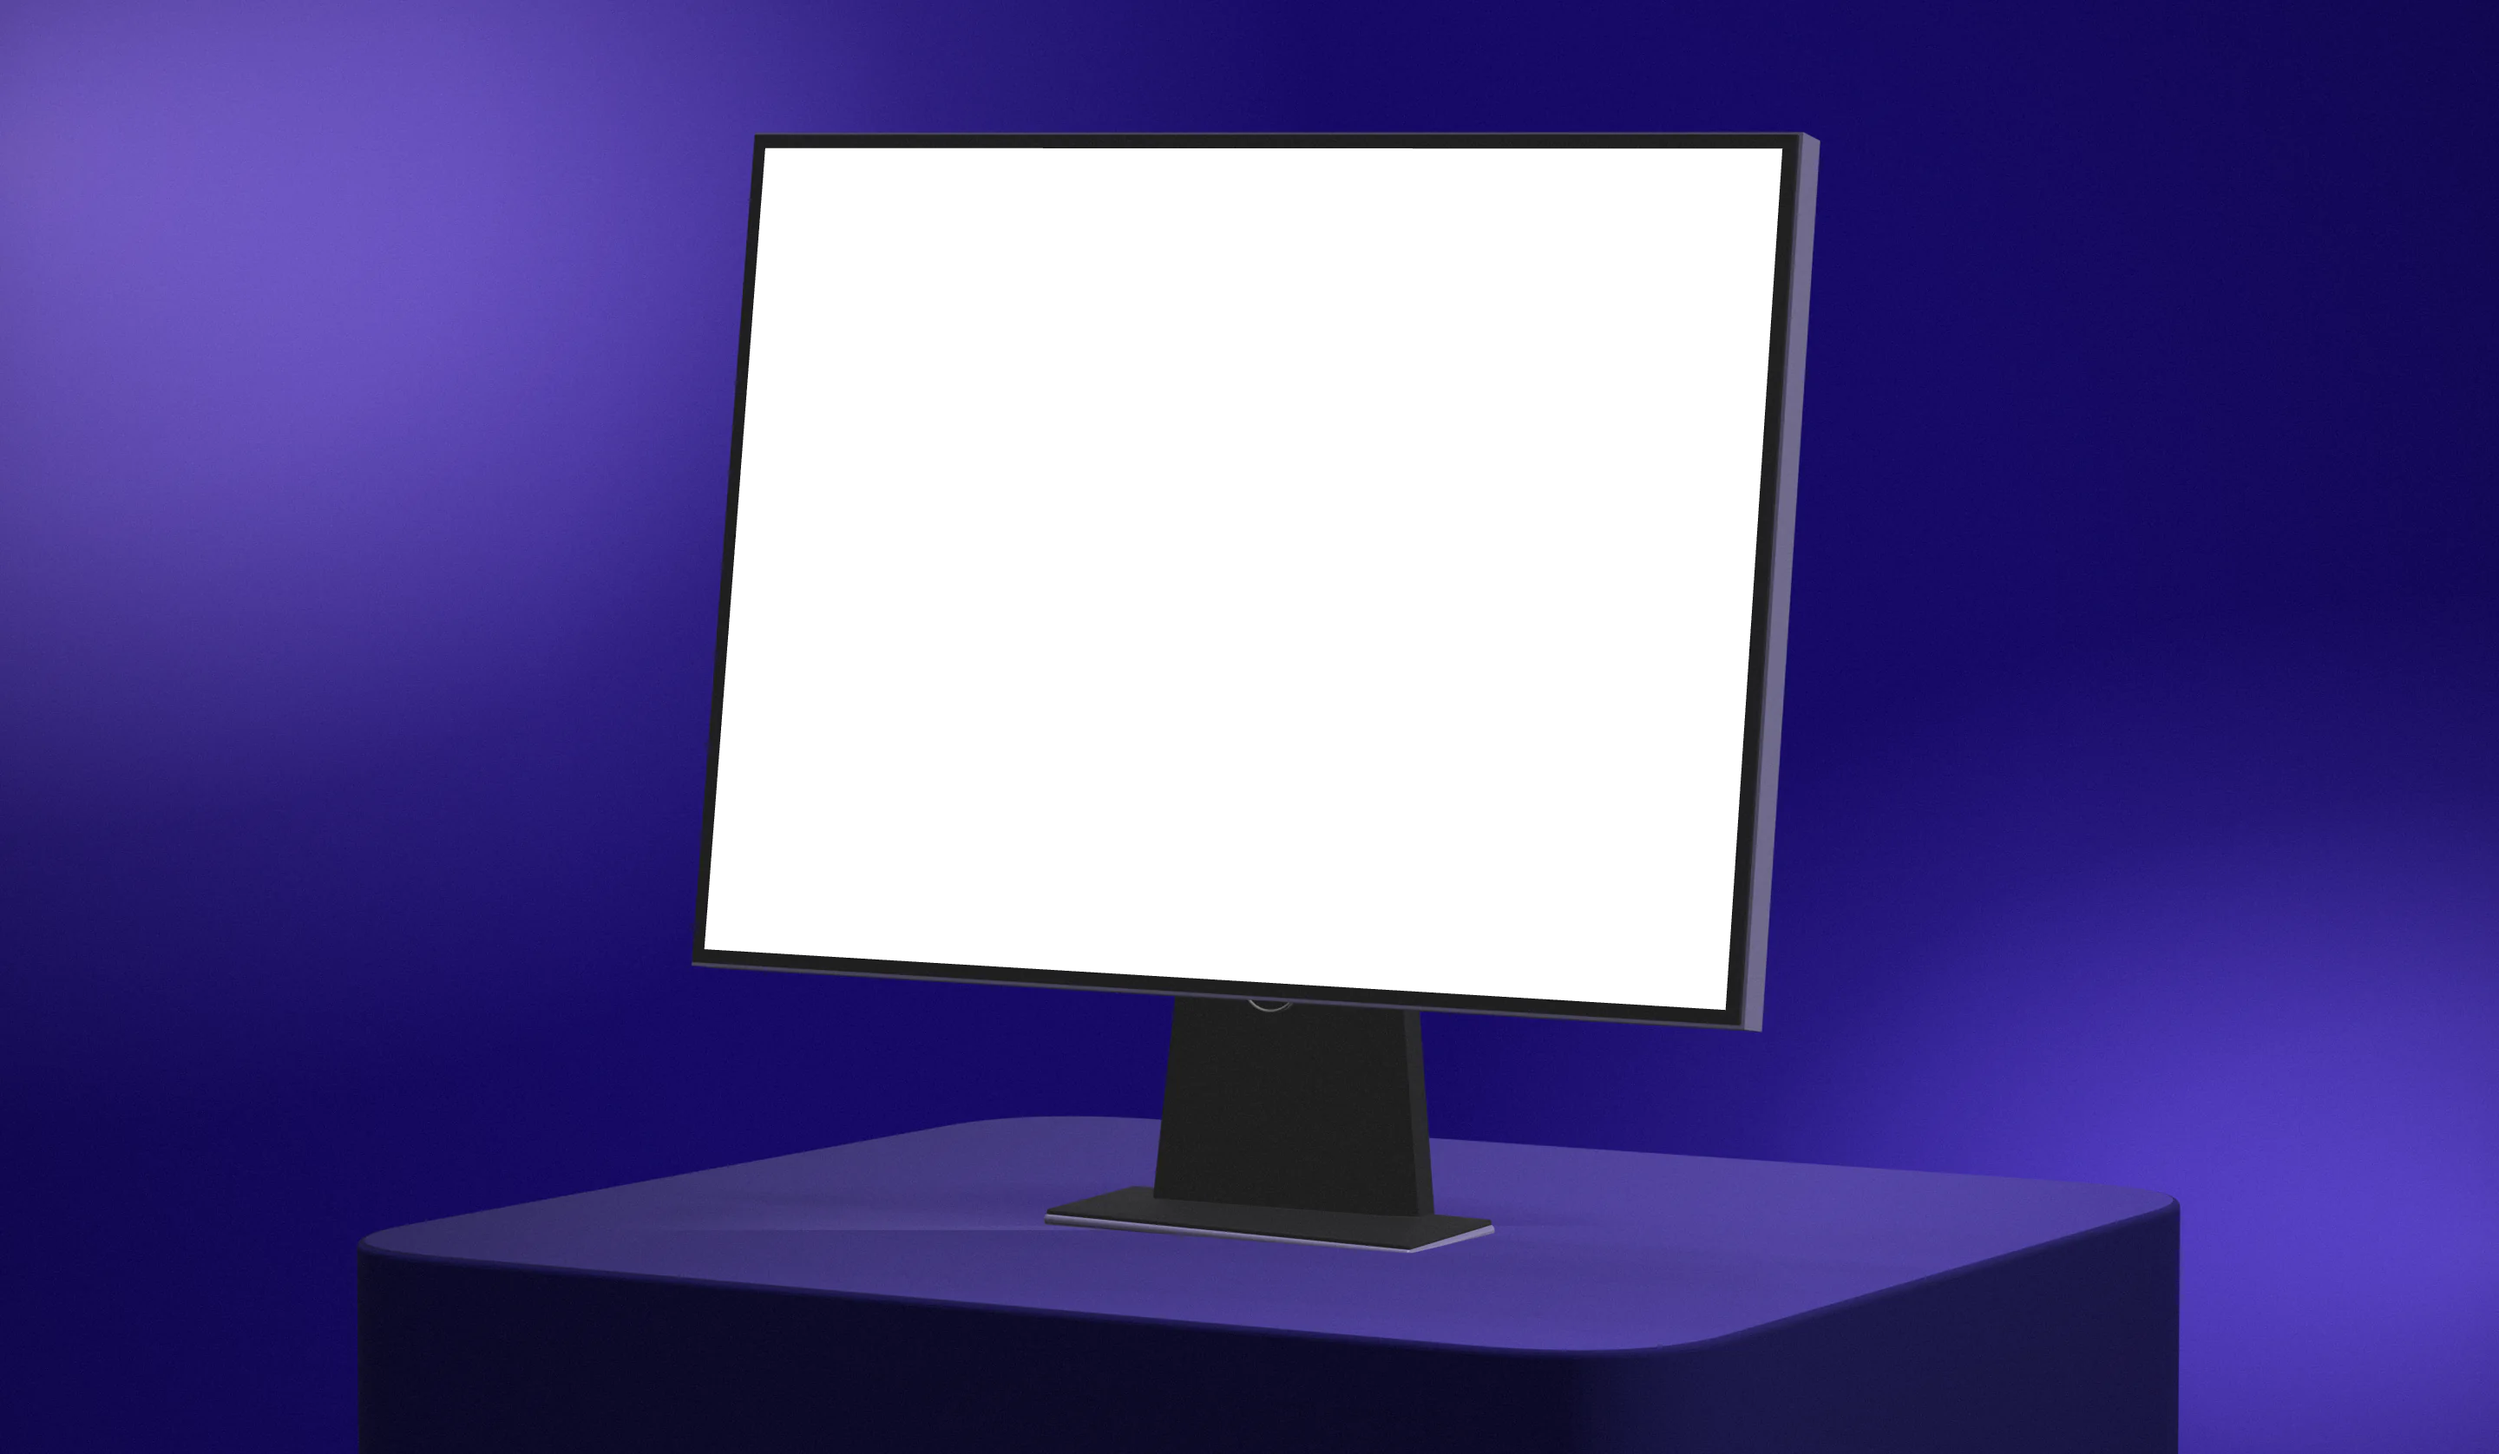
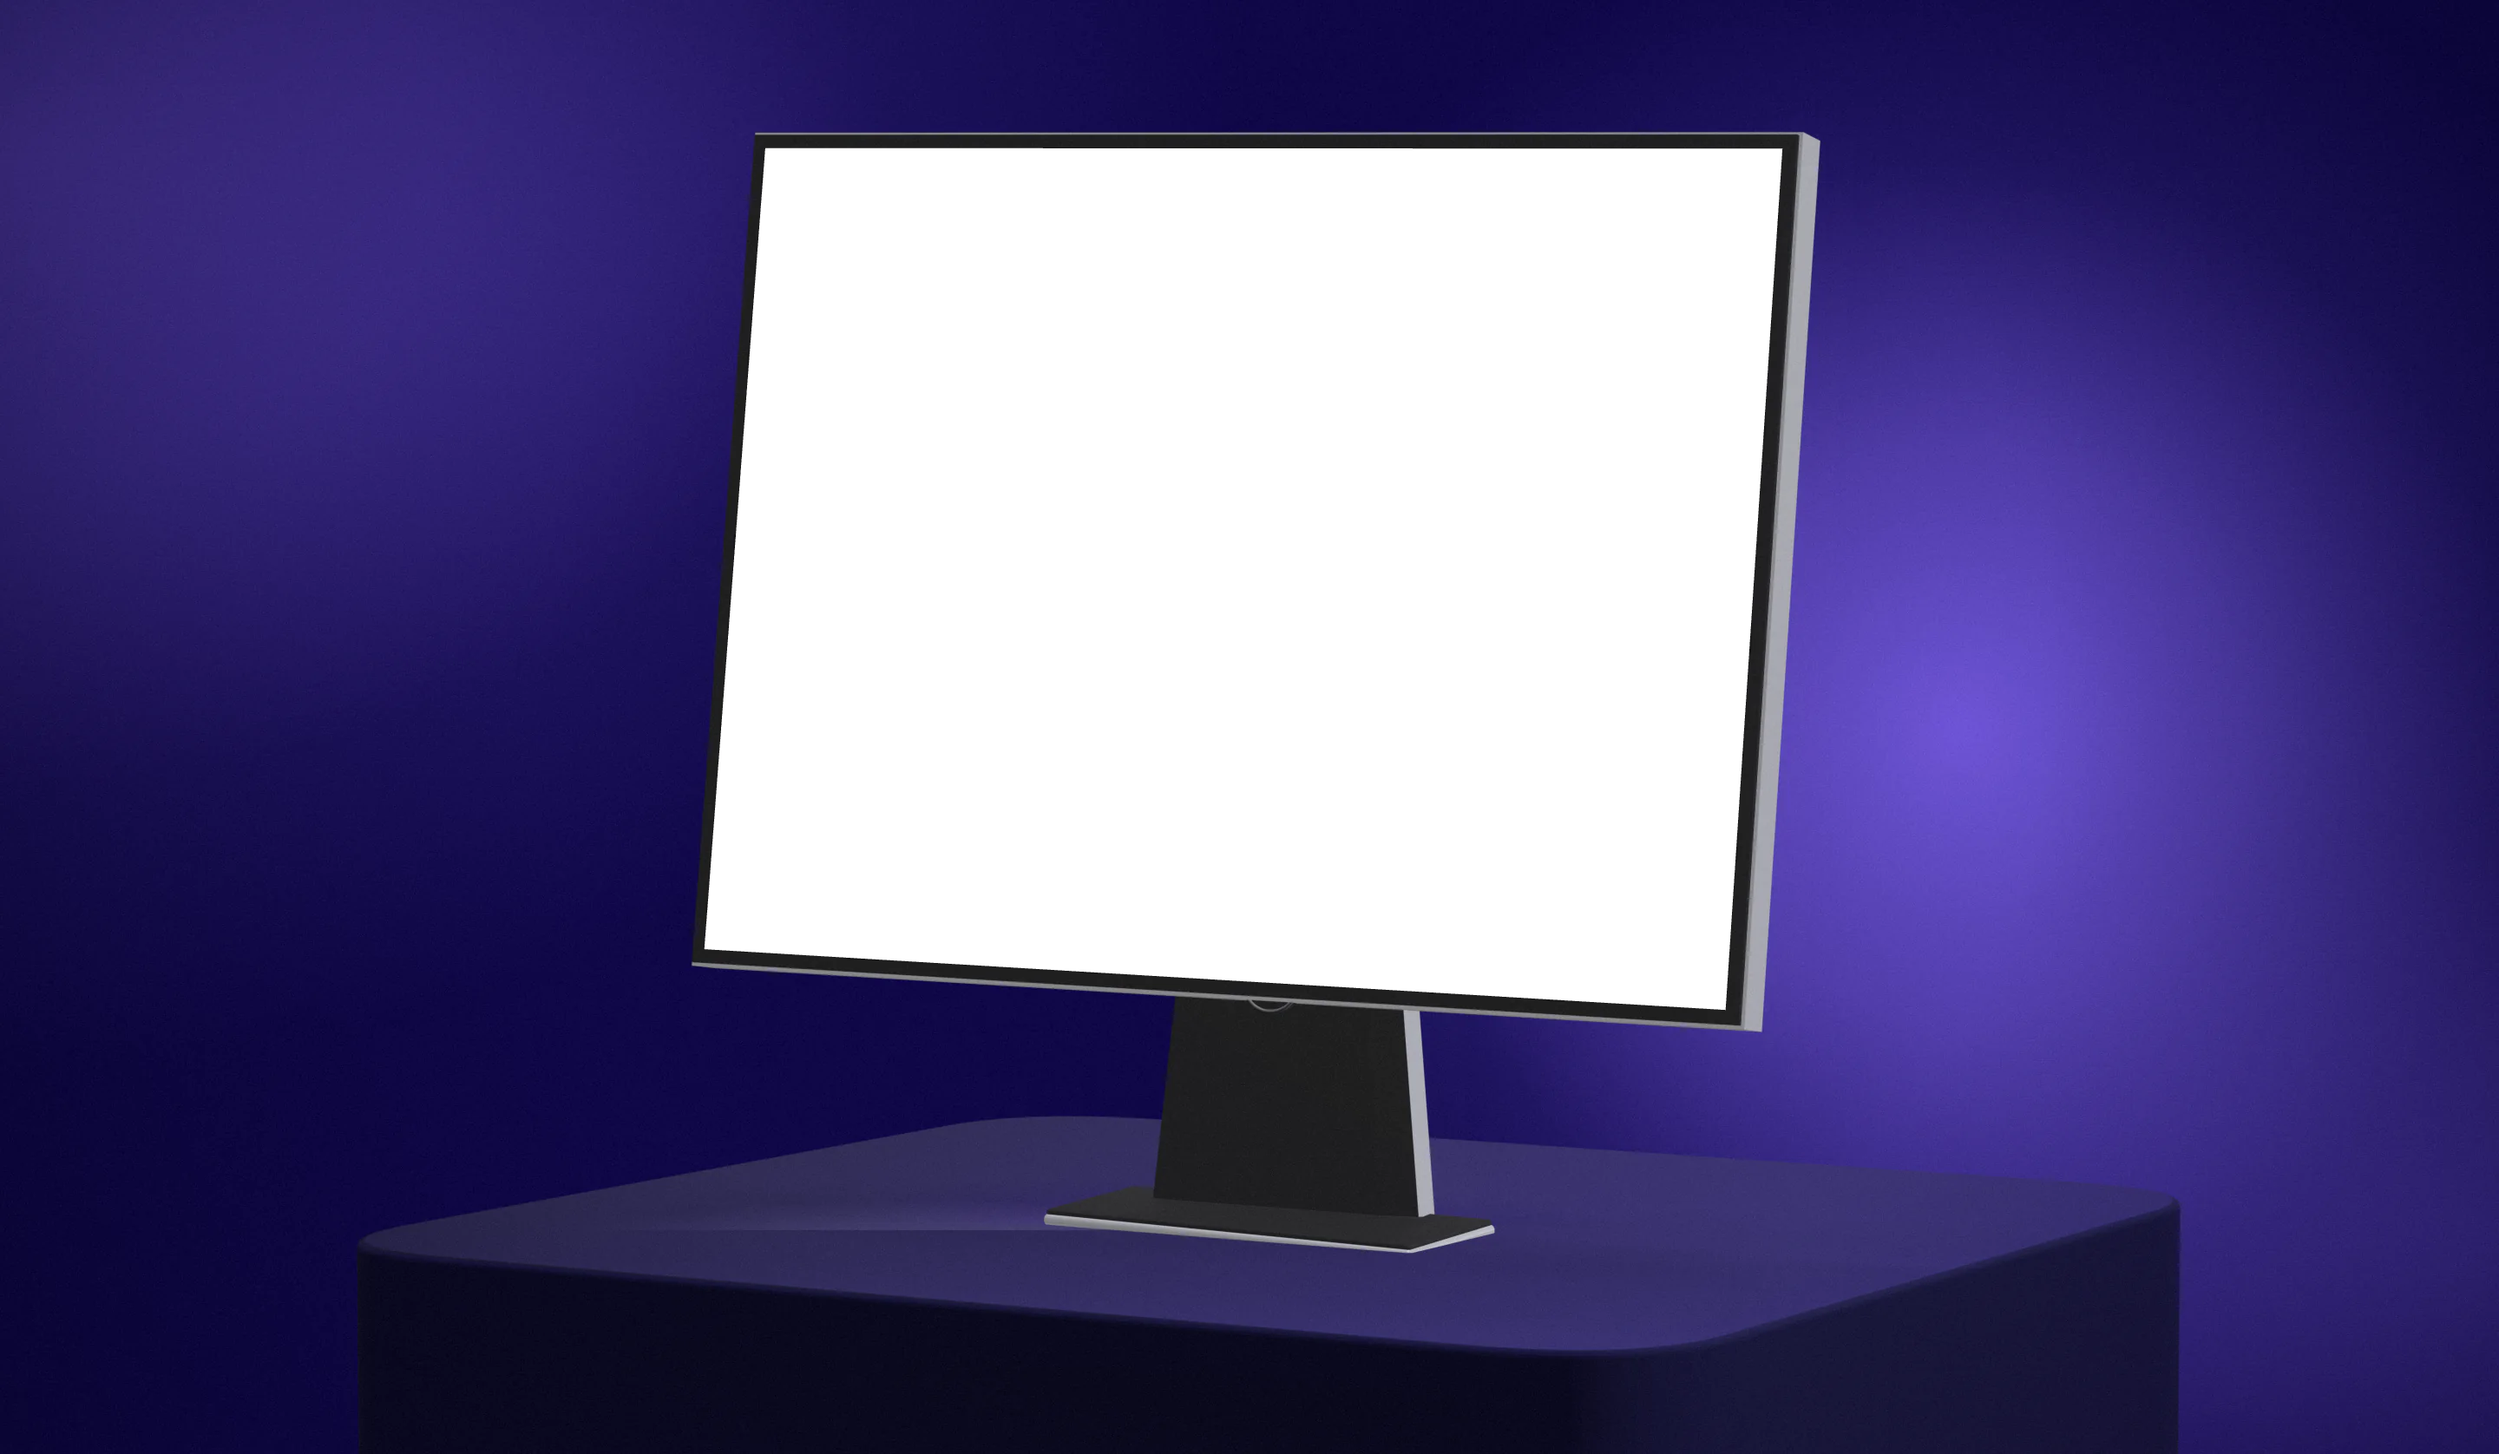
Devsign cover: backlit rim, darker surroundings so the screen leads

diff --git a/scripts/cover-3d/scene.html b/scripts/cover-3d/scene.html
@@ -24,7 +24,7 @@ const topm=M(P.plc,1),sidem=M(P.pls,1);for(const m of [topm,sidem]){m.vertexColo
 const o=new THREE.Mesh(g,[topm,sidem]);o.position.set(P.px||0,P.py,P.pz||0);o.rotation.y=P.pyaw;o.rotation.x=P.ptilt;o.castShadow=o.receiveShadow=true;s.add(o);}
 const mon=new THREE.Group();mon.position.set(...P.mon);mon.rotation.x=P.tilt;rig.add(mon);
 const sw=1.92,sh=1.43,bz=P.bz||.022,th=.085,bw=sw+bz*2,bh=sh+bz*2;
-const black=M(P.body||'#050506',.42,P.body?.25:0),silver=M(P.edge||'#c8ccd0',.38,.35);if(P.body){black.emissive=new THREE.Color('#ffffff');black.emissiveIntensity=P.glow;silver.emissive=new THREE.Color('#ffffff');silver.emissiveIntensity=P.glow*.8;}
+const black=M(P.body||'#050506',.42,P.body?.25:0),silver=M(P.edge||'#c8ccd0',.38,.35);if(P.body){black.emissive=new THREE.Color('#ffffff');black.emissiveIntensity=P.glow;silver.emissive=new THREE.Color('#ffffff');silver.emissiveIntensity=P.edgeGlow??P.glow*.8;}
 add(new THREE.BoxGeometry(bw+.012,bh+.012,th),silver,[0,0,-th/2-.006],mon);
 add(new THREE.BoxGeometry(bw,bh,.012),black,[0,0,.0],mon);
 add(new THREE.CylinderGeometry(.052,.052,.02,48),(P.body?black:M('#08080a',.4)),[P.nx,-sh*.5+.004,-.05],mon).rotation.x=Math.PI/2;
@@ -36,7 +36,7 @@ add(new RB(P.fs[0]-.01,.012,P.fs[1]-.01,6,.005),black,[P.foot[0],P.py+.036,P.foo
 const nb=mon.localToWorld(new THREE.Vector3(0,-sh*.43,-.14));s.updateMatrixWorld(true);
 const ns=new THREE.Shape();ns.moveTo(-P.nb/2,-.5);ns.lineTo(P.nb/2,-.5);ns.lineTo(P.nt/2,.5);ns.lineTo(-P.nt/2,.5);ns.closePath();
 const ng=new THREE.ExtrudeGeometry(ns,{depth:.07,bevelEnabled:false});ng.translate(0,0,-.035);
-const neck=add(ng,black,[0,0,0]);
+const neck=add(ng,[black,silver],[0,0,0]);
 {const a=rig.worldToLocal(mon.localToWorld(new THREE.Vector3(P.nx,-sh*.42,-.13))),b=new THREE.Vector3(P.foot[0],P.py+.03,P.foot[1]-.1);neck.position.copy(a.clone().add(b).multiplyScalar(.5));neck.scale.y=a.distanceTo(b);neck.quaternion.setFromUnitVectors(new THREE.Vector3(0,1,0),a.clone().sub(b).normalize());}
 {const c=document.createElement('canvas');c.width=c.height=512;const x=c.getContext('2d');const g2=x.createRadialGradient(256,256,20,256,256,256);g2.addColorStop(0,'rgba(8,4,40,.75)');g2.addColorStop(.45,'rgba(8,4,40,.34)');g2.addColorStop(1,'rgba(8,4,40,0)');x.fillStyle=g2;x.fillRect(0,0,512,512);const m=new THREE.Mesh(new THREE.PlaneGeometry(P.fs[0]*2.1,P.fs[1]*3.2),new THREE.MeshBasicMaterial({map:new THREE.CanvasTexture(c),transparent:true,depthWrite:false}));m.rotation.x=-Math.PI/2;m.position.set(P.foot[0],P.py+.016,P.foot[1]);rig.add(m)}
 {const c=document.createElement('canvas');c.width=c.height=512;const x=c.getContext('2d');const g2=x.createRadialGradient(256,256,10,256,256,256);g2.addColorStop(0,'rgba(200,190,255,'+P.spill+')');g2.addColorStop(1,'rgba(200,190,255,0)');x.fillStyle=g2;x.fillRect(0,0,512,512);const m=new THREE.Mesh(new THREE.PlaneGeometry(1.9,1.1),new THREE.MeshBasicMaterial({map:new THREE.CanvasTexture(c),transparent:true,depthWrite:false,blending:THREE.AdditiveBlending}));m.rotation.x=-Math.PI/2;m.position.set(0,P.py+.018,.55);rig.add(m)}
@@ -59,7 +59,7 @@ for(let yy=0;yy<H;yy++)for(let xx=0;xx<W;xx++){const i=((H-1-yy)*W+xx)*4,o=(yy*W
 x.putImageData(out,0,0);
 {const hi=document.createElement('canvas');hi.width=W;hi.height=H;const hx=hi.getContext('2d'),hd=hx.createImageData(W,H);for(let i=0;i<e.length;i+=4){const l=(e[i]+e[i+1]+e[i+2])/3,k=Math.max(0,l-105)/150;hd.data[i]=e[i]*k;hd.data[i+1]=e[i+1]*k;hd.data[i+2]=e[i+2]*k;hd.data[i+3]=255}hx.putImageData(hd,0,0);
 x.globalCompositeOperation='lighter';x.filter=`blur(${W/90}px)`;x.globalAlpha=P.bloom;x.drawImage(hi,0,0);x.filter='none';x.globalAlpha=1;x.globalCompositeOperation='source-over';
-const v=x.createRadialGradient(W*.52,H*.46,W*.3,W*.52,H*.46,W*.75);v.addColorStop(0,'rgba(10,4,50,0)');v.addColorStop(1,'rgba(6,2,36,.62)');x.fillStyle=v;x.fillRect(0,0,W,H);
+const v=x.createRadialGradient(W*.52,H*.46,W*.3,W*.52,H*.46,W*.75);v.addColorStop(0,'rgba(10,4,50,0)');v.addColorStop(1,'rgba(4,1,26,.78)');x.fillStyle=v;x.fillRect(0,0,W,H);
 const id=x.getImageData(0,0,W,H);for(let i=0;i<id.data.length;i+=4){const n=((Math.random()+Math.random())-1)*P.grain;id.data[i]+=n;id.data[i+1]+=n;id.data[i+2]+=n}x.putImageData(id,0,0)}
 // Screen hole, antialiased.
 x.fillStyle='#000';x.globalCompositeOperation='destination-out';x.beginPath();corners.forEach(([a,bb],i)=>{const px=a/L,py=bb/L;i?x.lineTo(px,py):x.moveTo(px,py)});x.closePath();x.fill();
